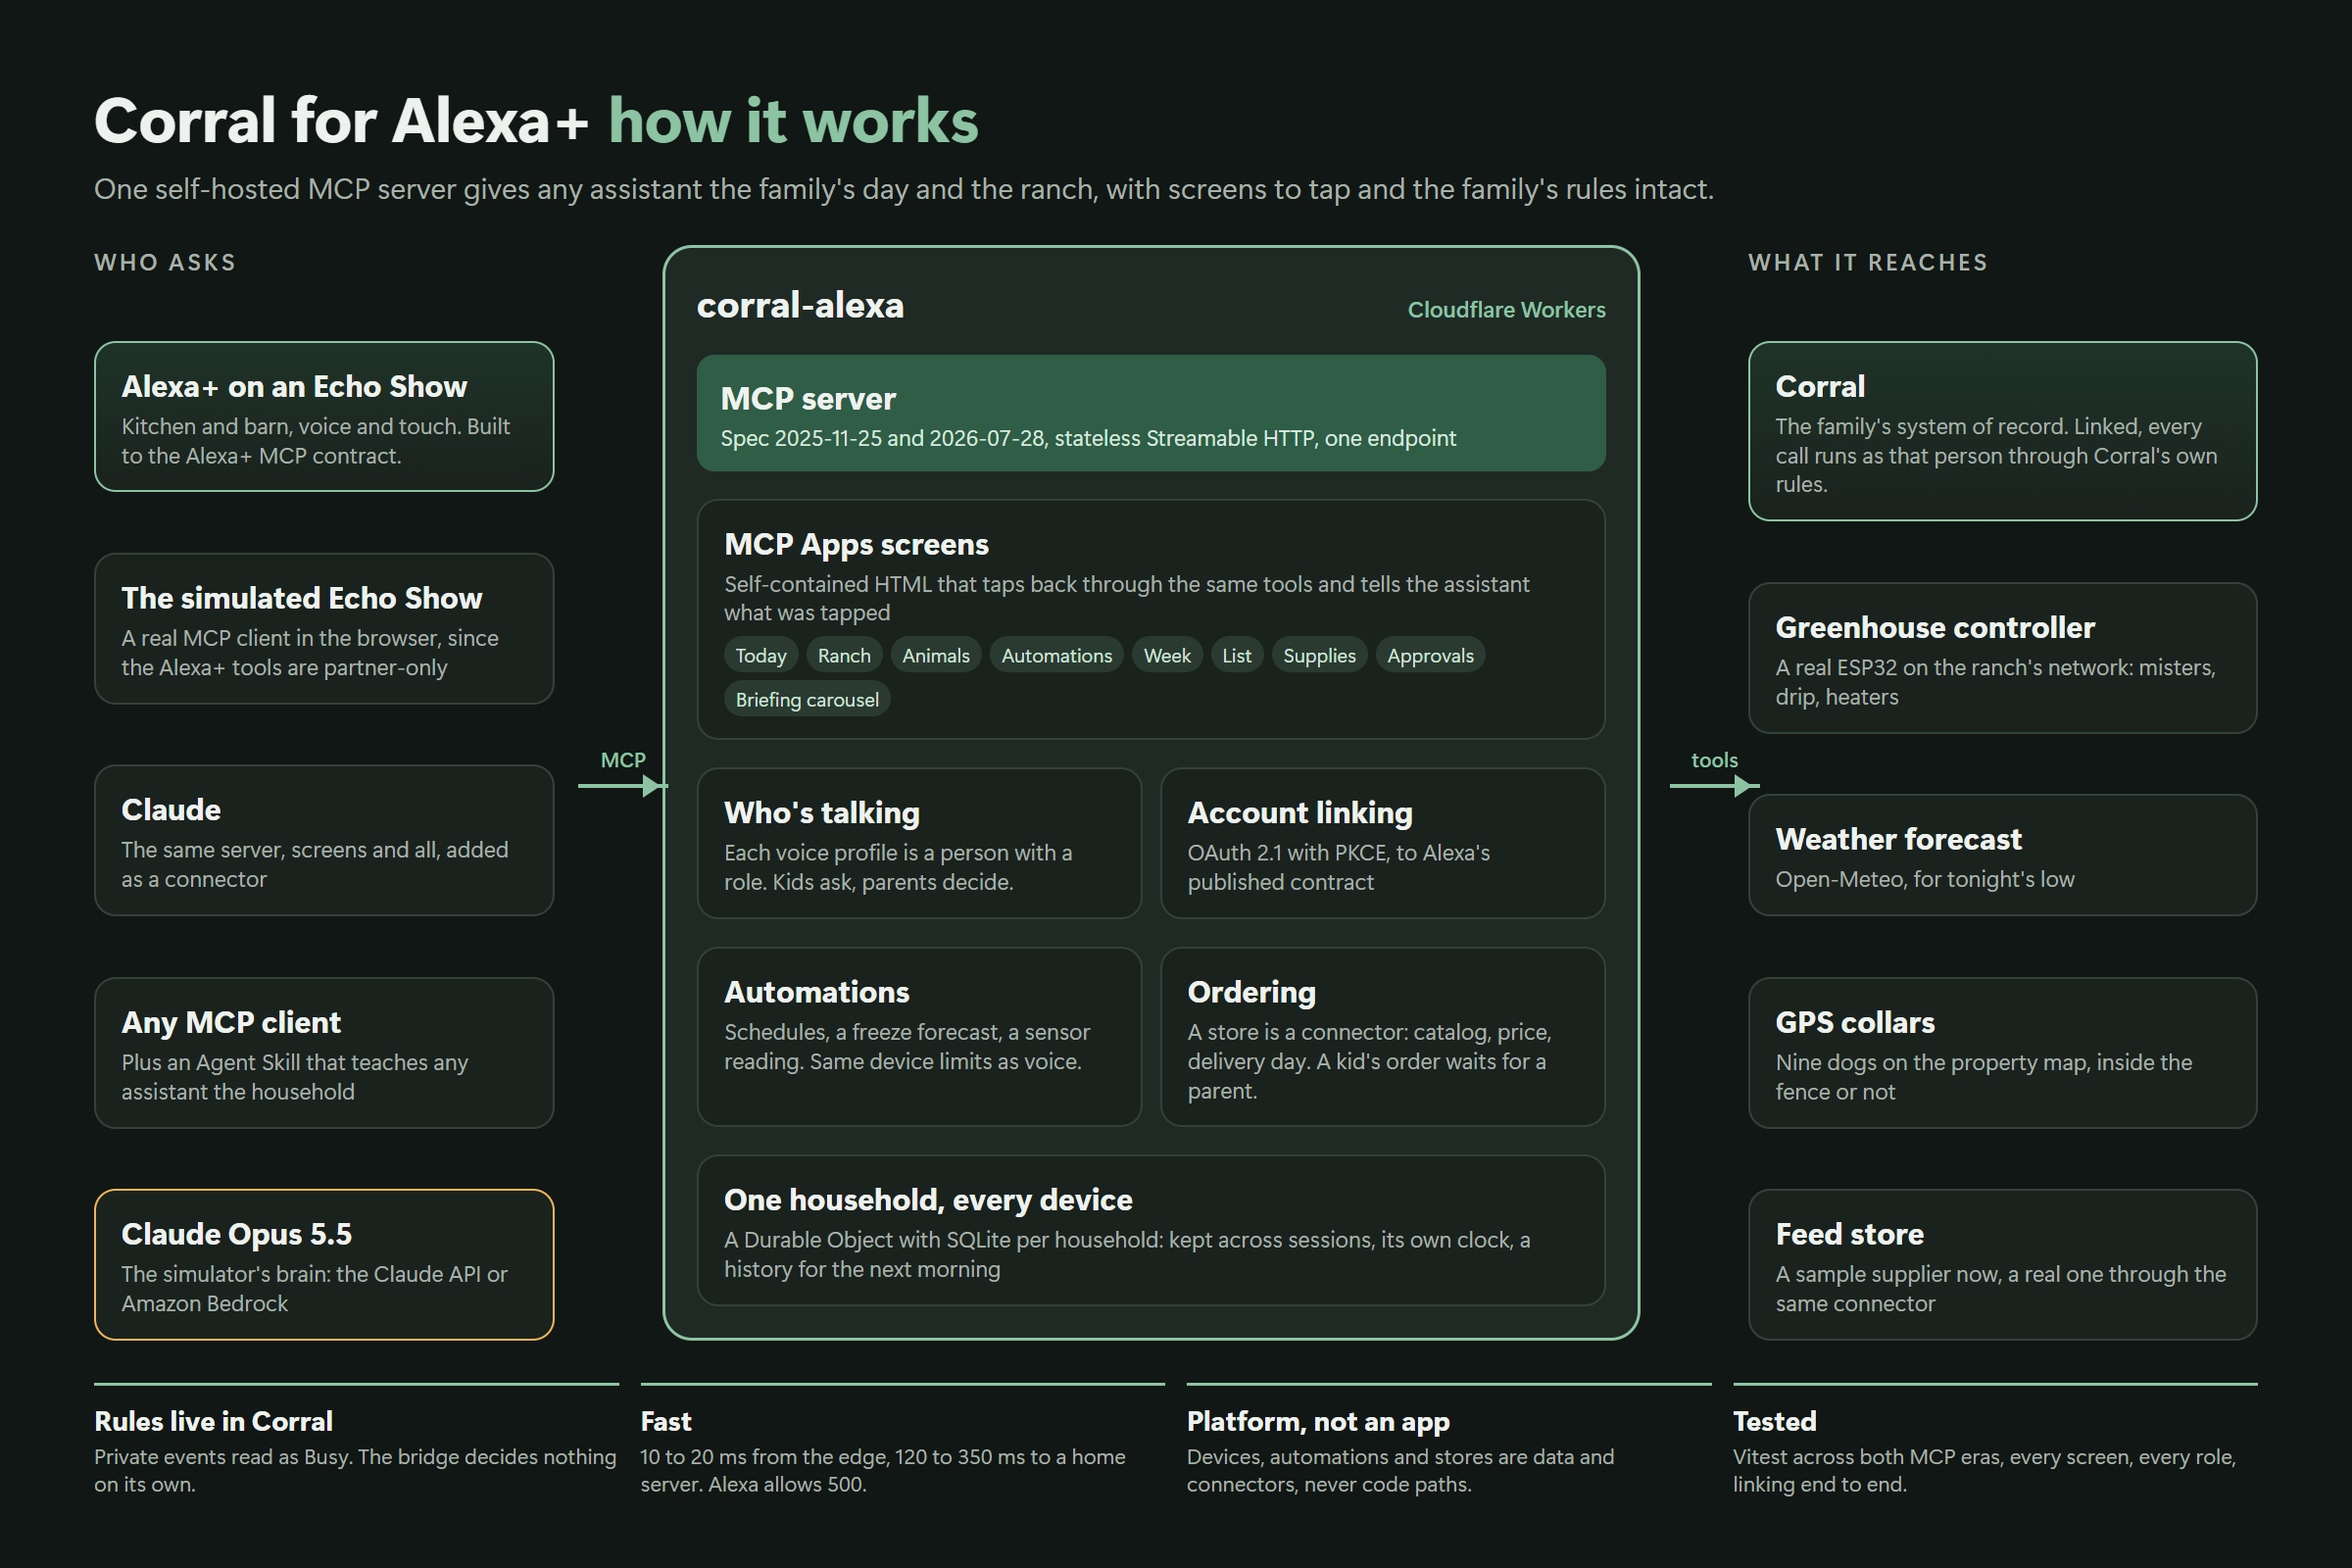
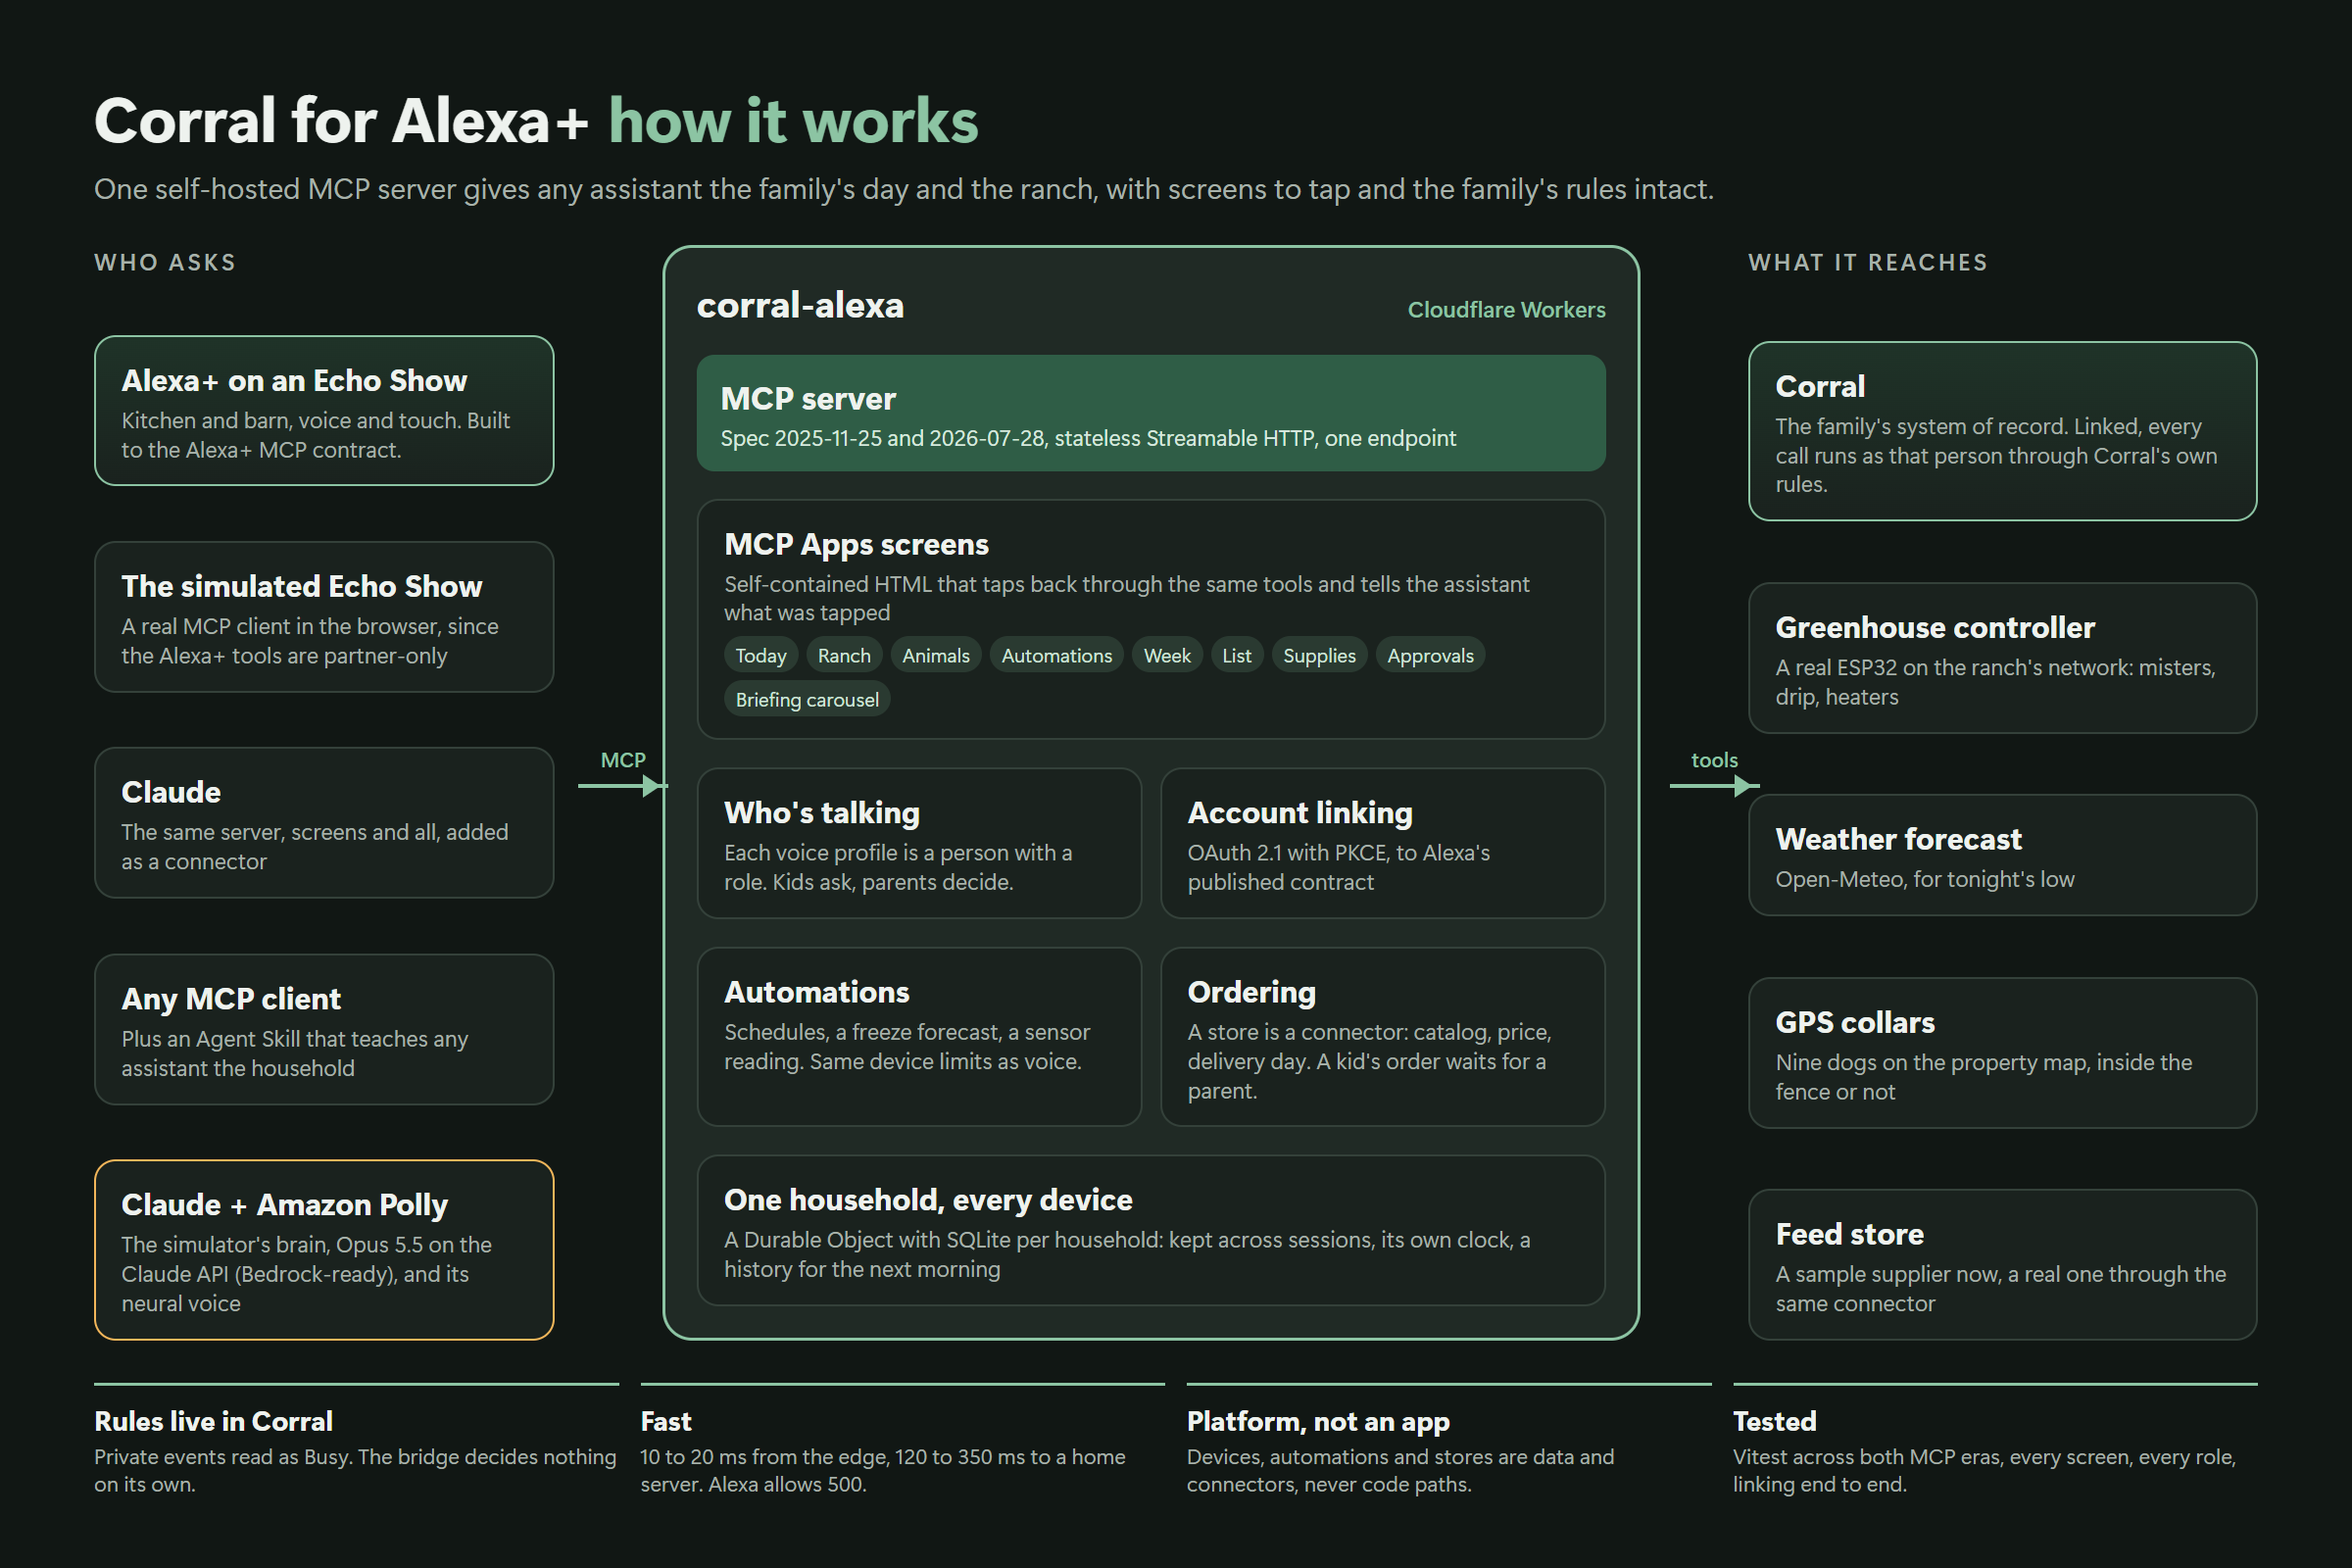
A 60-second path for judges, walked on the live demo: Make it evening, ask what's going on tonight, tap Animals, hear the Echo speak up about Hunter, then Eli asks and Nick approves; it opens the README, and the simulator says it in a line under its introduction. The architecture image shows Polly a

diff --git a/echo/index.html b/echo/index.html
@@ -42,6 +42,7 @@
         <header>
           <h1>Corral for Alexa+</h1>
           <p class="lede">Ask about the Juniper Hollow household: the calendar, chores, lists, who's where, points and supplies. Tap the screen to check chores off.</p>
+          <p class="hint" id="tour">In a minute: press <b>Make it evening</b>, ask "What's going on tonight?", tap Animals on the screen and wait for the Echo to speak up. Then try the suggestions marked Eli and Nick. Or press <b>Play the demo</b>.</p>
         </header>
 
         <fieldset class="speakers" id="speakers" hidden>

diff --git a/README.md b/README.md
@@ -10,6 +10,15 @@ On a ranch it also runs the place: **"Alexa, run the greenhouse misters for 30 s
 
 ![The simulated Echo Show 8 answering "What's going on tonight?" with the Today screen: the calendar with what's on now, late chores to tap off, and who's where, with tabs for the Ranch, the Animals and the Automations](docs/images/echo-show.jpg)
 
+**In 60 seconds**
+
+1. Open **[the simulated Echo Show](https://alexa-demo.corral.narralogy.ai/echo)**, enter the demo passcode (it's in the submission's testing instructions), and press **Make it evening**: it's 8:15 PM at the ranch.
+2. Ask **"What's going on tonight?"** (press Talk, or type it). The Today screen comes up; tap **Animals** on its rail for the nine dogs on the property map.
+3. Wait a moment. A couple of minutes into the evening, the Echo **speaks up on its own**: "Heads up: Hunter just left the fence."
+4. Tap the suggestion marked **Eli** (a sleepover on Friday) and say yes when Alexa offers to ask, then the one marked **Nick** ("Anything waiting for me?") and tap **Approve**. Kids ask; parents decide.
+
+Or press **Play the demo** and watch the evening and the next morning play out with the real model.
+
 **Try it**
 
 - **[The simulated Echo Show](https://alexa-demo.corral.narralogy.ai/echo)**: talk to it (or type), watch it call Corral's tools over MCP, tap the screens, and pick who's speaking to watch the family's rules follow the person. It runs on a made-up household, Juniper Hollow. The demo passcode is in the submission's testing instructions.
